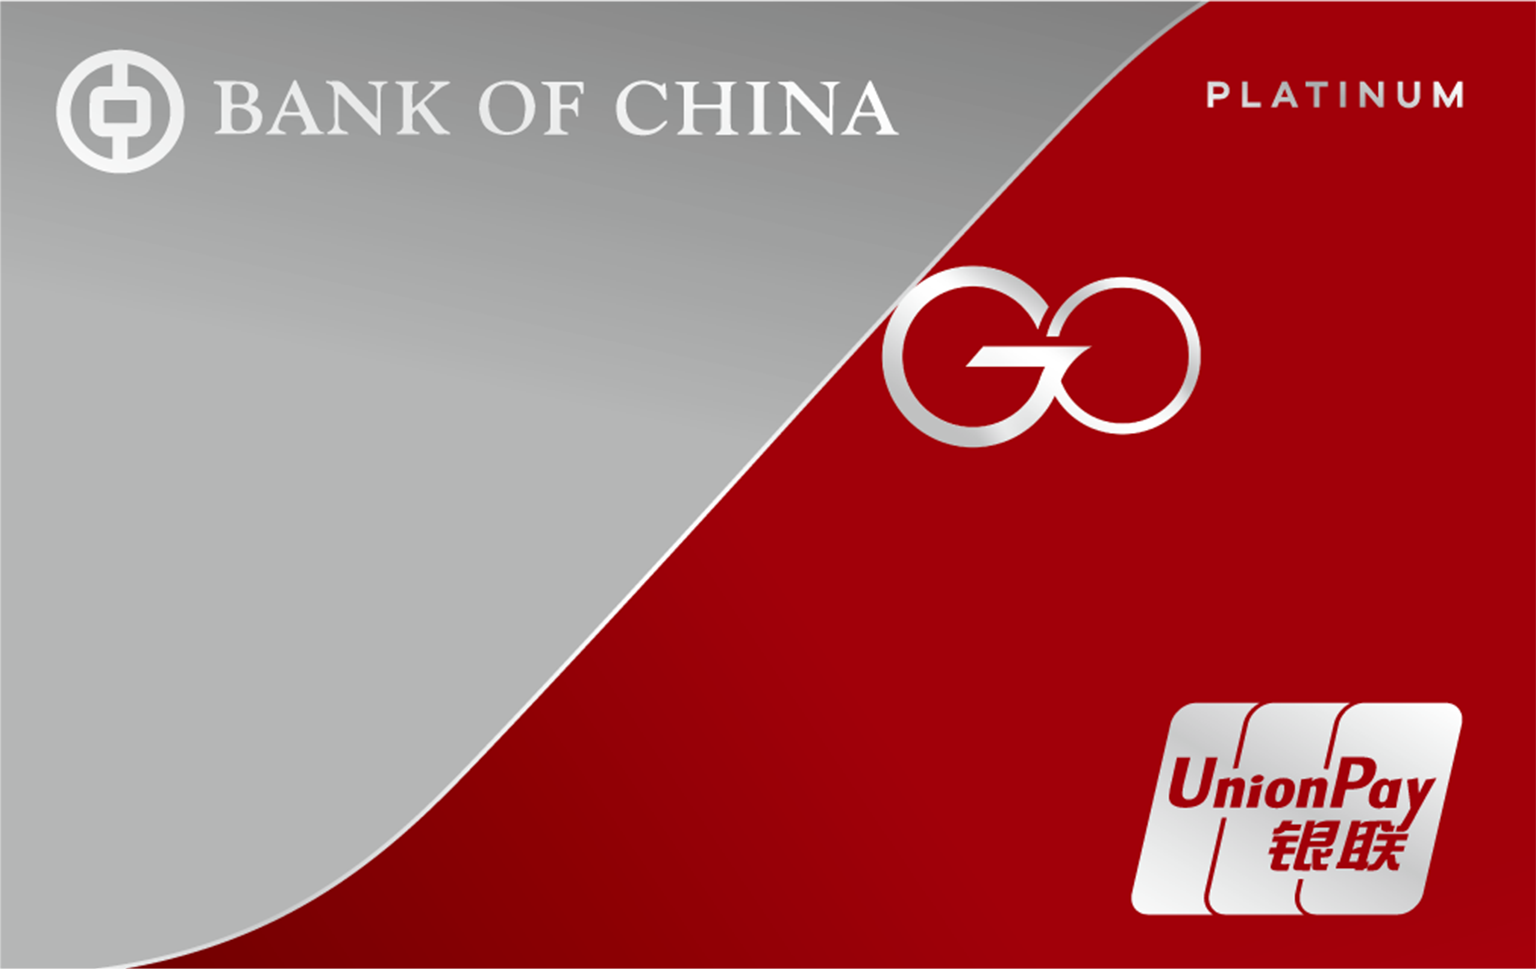
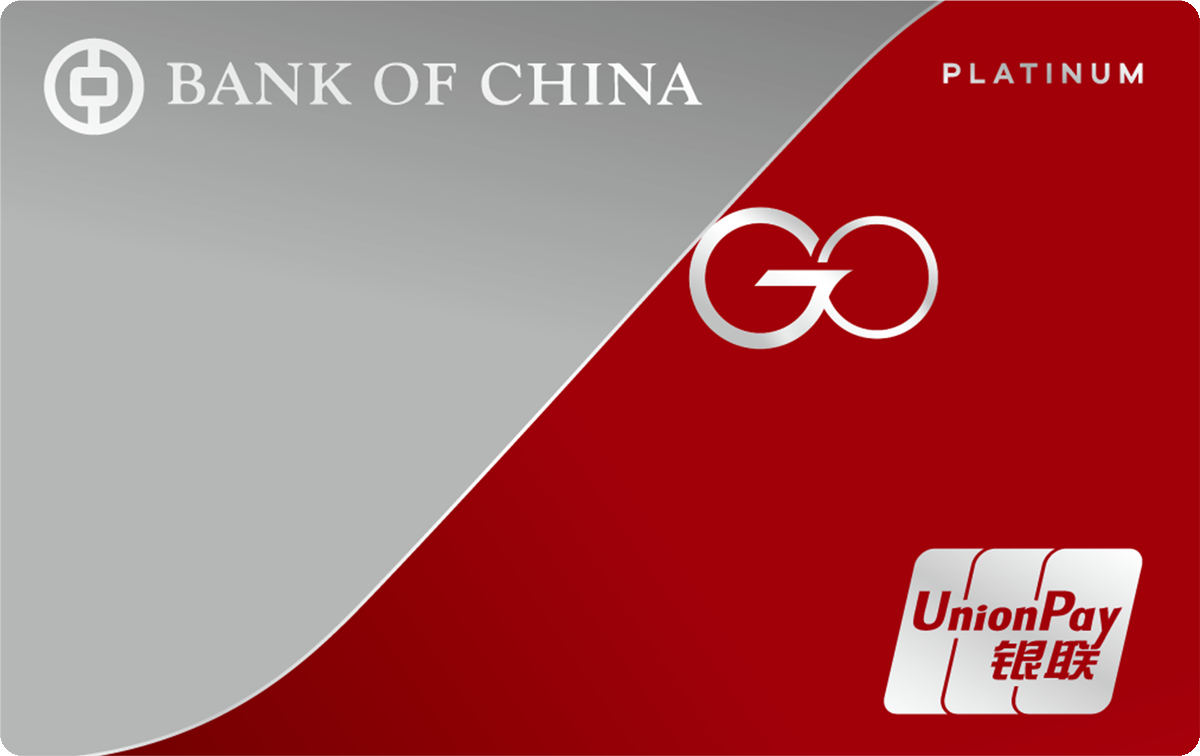
Crop all card artwork to a uniform canvas
Normalize every published card face to 1200x756 edge-to-edge artwork, remove the mock-up margins around the GBA and student cards, and bump the catalog version.

diff --git a/README.md b/README.md
@@ -18,7 +18,7 @@
 
 ## 当前覆盖
 
-2026-10-25 发布的 `contentVersion: 2026102308` 包含 **5 家银行、15 款产品**：HSBC、BOCHK、BEA、CNCBI，以及交通银行（香港）。
+2026-10-25 发布的 `contentVersion: 2026102310` 包含 **5 家银行、15 款产品**：HSBC、BOCHK、BEA、CNCBI，以及交通银行（香港）。
 
 交通银行新增 Go-Goal Visa 白金信用卡与大湾区银联双币钻石信用卡，含卡面、日常权益与 2026 年迎新。本轮同时把汇丰、中银、东亚和交银的卡面统一为横版资源；本轮替换的公开卡面不包含任何卡号尾号。
 
